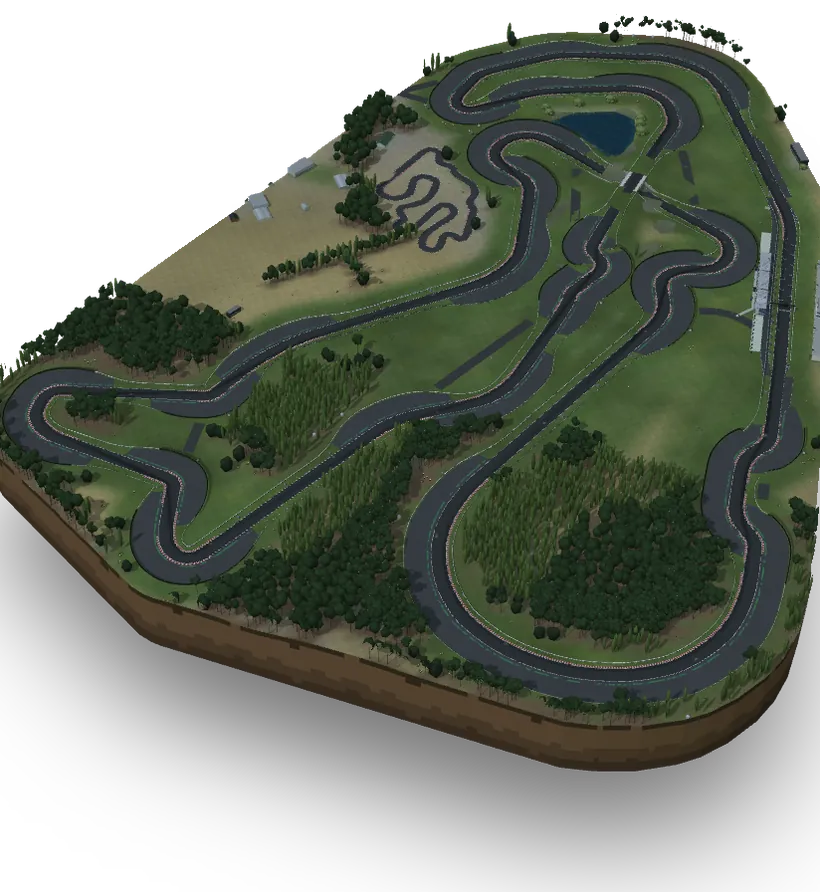
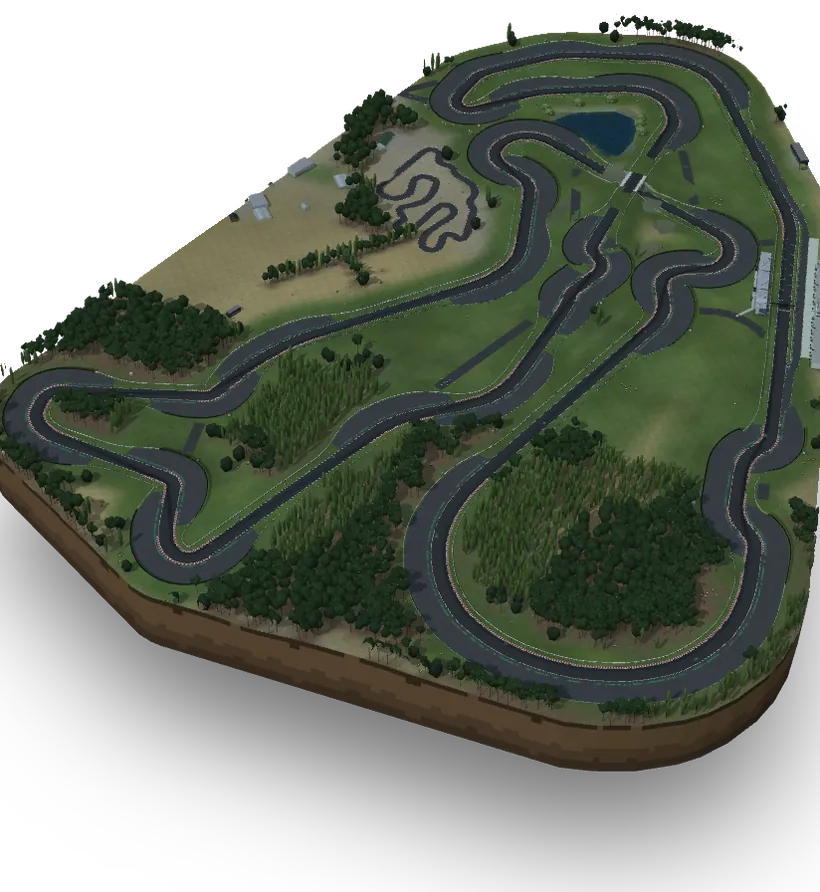
Dirkališča po celinah N12: Cromwell – 13 garaž, sliki za meni s stezo boksov levo
- Stavba boksov ima 13 garaž (144 m, od -72 do 72 m) za 13 posadk, ki
  jih postavi World (pitRow do 55 m + zadnji boks); prej je 13. ekipa
  stala pred pisarno in njen trak je visel v zraku. Paddock do 78 m.
- Sliki za meni znova izrisani: boksarska steza in predprostor na
  zunanji strani ciljne ravnine pred stavbo boksov.
- Referenci sveta in obremenitve za Cromwell (214/263 klicev,
  600k/715k oglišč); test garaž: Cromwell 16 ploskev, vse vidne.

Claude-Session: https://claude.ai/code/session_01UuPU9EGq6RcTVcgcFcvvxx

diff --git a/js/world-cromwell.js b/js/world-cromwell.js
@@ -6,7 +6,7 @@
    the track: docs/proge/cromwell.md). Its own: the figure of eight's bridge (Core: T.cross; the upper leg on an embankment, a concrete deck
    with parapets that fades while the followed car drives under it, Render's dyn.tunnel; the lower leg between retaining walls, the ground
    behind them on a patch of its own, finer than the terrain's grid); the pit lane on the left of the start straight (def.pit) and the pit
-   building behind it (12 crews' garages, a roof terrace, the race control's glass over the start line), the paddock behind it, the covered
+   building behind it (13 crews' garages, a roof terrace, the race control's glass over the start line), the paddock behind it, the covered
    grandstand across the straight; the terrace's dry golden grass with tussock and wild thyme, stony patches, the circuit's irrigated
    lawns; the radiata pine plantations, the shelter belts of Lombardy poplars, pines and macrocarpa, broom and briar; the orchards' and
    vineyards' rows on the farmland (lc 2, in blocks of 160 m; few by the circuit); the pond in the west loop (def.sk.sea: API.rbSea) with flax and
@@ -176,7 +176,7 @@
     const mD = (x, z) => (x - S0[0]) * mtx + (z - S0[1]) * mtz, mL = (x, z) => (x - S0[0]) * mnx + (z - S0[1]) * mnz;
     const mainD = (i) => { const d = dSs(i * ds); return d > -260 && d < 160; };   // (a sample on the main straight)
     // the paddock behind the pit building (metres along the straight and out from it, on the pits' side): asphalt from the building's back
-    const PAD = { d0: -78, d1: 70, o0: 38, o1: 86 };
+    const PAD = { d0: -78, d1: 78, o0: 38, o1: 86 };
     const paddock = (x, z) => { const d = mD(x, z), l = mL(x, z); return d > PAD.d0 && d < PAD.d1 && l > PAD.o0 && l < PAD.o1; };
 
     /* ---- the bridge (Core: T.cross, the lower leg under the upper one). The upper leg's road on its deck from D0 to D1 (14 m either side
@@ -499,12 +499,12 @@
       pitExcl(exclPush);
       nGar = pitBuilding();
     }
-    // the pit building: 134 m along the lane, the start line in its middle. The ground floor, 5 m: the crews' 12 garages (10 m, open: World's
+    // the pit building: 144 m along the lane, the start line in its middle. The ground floor, 5 m: the crews' 13 garages (10 m, open: World's
     // measures, out.pitBoxes[].gar, so that the renderer's team colours, door and flags fit; def.pitRow), offices at either end, a corridor
     // behind them with roller doors and windows to the paddock; on its flat roof a terrace behind white railings; over the start line the
     // race control, two floors of glass on the roof, the place's name on it, New Zealand's flags
     function pitBuilding() {
-      const pm = T.pitAt(sStart), PO = pm ? pm.o : 14, F = PO + 12.5, b0 = PO + 19.7, BK = b0 + 3.2, RF = 5.0, PR = def.pitRow || [-65, 55], B0 = PR[0], B1 = PR[1], E = 7;
+      const pm = T.pitAt(sStart), PO = pm ? pm.o : 14, F = PO + 12.5, b0 = PO + 19.7, BK = b0 + 3.2, RF = 5.0, PR = def.pitRow || [-65, 55], B0 = PR[0], B1 = PR[1] + 10, E = 7;   // (B1: the last box's garage's end, World's boxes from pitRow[0] to pitRow[1] + 10)
       const WALL = [0.94, 0.94, 0.92], DOOR = [0.74, 0.76, 0.78], SLAB = [0.95, 0.95, 0.94], ROOF = [0.62, 0.62, 0.6], RAIL = [0.96, 0.96, 0.95];
       const kb = (g, s, o, y, sx, sy, sz, col, top, nb) => { const [x, z, hd] = At(s, o); box(g, x, Y(s) + y, z, sx, sy, sz, hd, col, top, nb); };
       const kf = (g, d0, d1, o, y0, y1, col, dir) => { const [x0, z0] = At(sAt(d0), o), [x1, z1] = At(sAt(d1), o), sm = sAt((d0 + d1) / 2), [xb, zb] = At(sm, o - (dir || -1) * 0.2), dy = Y(sm);   // a flat panel facing the lane (dir -1) or the paddock (+1)
@@ -605,7 +605,7 @@
     for (let k = 0; k + 6 < B7.length; k += 7) {
       const x = B7[k], z = B7[k + 1], Lb = B7[k + 2], Wb = B7[k + 3], ang = B7[k + 4] * Math.PI / 180, H = B7[k + 5] || 6, kind = B7[k + 6], rd = nrDist(x, z);
       if (paddock(x, z) || excluded(x, z)) continue;
-      { const bd = mD(x, z), bl = mL(x, z); if (PP && bl > 18 && bl < 42 && bd > -72 - Lb / 2 && bd < 62 + Lb / 2) continue; }   // (by the pit building: ours)
+      { const bd = mD(x, z), bl = mL(x, z); if (PP && bl > 18 && bl < 42 && bd > -72 - Lb / 2 && bd < 72 + Lb / 2) continue; }   // (by the pit building: ours)
       const g = rd < 170 ? scen.get(x, z) : farB.get(x, z), y0 = groundMin(x, z, Lb, Wb, ang), c = Math.cos(ang), s = Math.sin(ang), at = (a, b) => [x + c * a - s * b, z + s * a + c * b];
       if (rd < 70 && Lb * Wb < 900) {   // the circuit's own (the offices, the workshops, the kiosks): dark cladding, a band of windows, a flat roof
         const Hb = clamp(H, 3.6, 8), ins = [x, y0 + Hb / 2, z];

diff --git a/docs/kazalo.md b/docs/kazalo.md
@@ -255,7 +255,7 @@ Naslovi `/*  <naslov>`: telesa avtov `car body definitions`, nova vozila `the ne
 | parnu | Pärnu, Estonija | parnu | `js/world-parnu.js` (`buildParnu`, svoj graditelj: obalni travniki `paGrassTex` in barve tal `P.colFn` (seno, mokrotne kotanje ob jarkih `ditchD` in ribniku, polja, gozdna tla), bori, breze, brini in vrbe `paTreeGeo` z vetrom, prodišča `API.rbGravelTex` po `T.gravL` / `T.gravR`, robniki, ograje (beton, gume, jeklena), stavba boksov z 29 garažami `pitBuilding` (13 ekip po merah `out.pitBoxes[].gar`), paviljon in hiše `sk.bld` / `sk.pav`, paddock s tovornjaki, tribuna `def.stands`, ribnik `API.rbSea.water` s trstičjem, jarki, ograje `sk.fence`, zastave Estonije `API.rbFlags`, TV stolpi in redarske hišice, table `paAtlas`) |
 | houli | Houli, Tajvan | houli | `js/world-houli.js` (`buildHouli`, svoj graditelj: subtropska trata `hlGrassTex` in barve tal `P.colFn` (suhe zaplate, polja riža in cvetja, rdeča prst, gozdna tla, dvorišča, paddock), kafrovci, betelove palme, bambus in grmi `hlTreeGeo` z vetrom, brajde vinogradov in sadovnjakov `hlTrellisGeo`, asfaltne izletne cone (`def.runoffTarmac`), robniki, ograje (beton, gume, jeklena), stavba za dirke z 37 garažami in steklenimi nadstropji `hlGlassTex` (13 ekip po merah `out.pitBoxes[].gar`), paddock s tovornjaki, tribuna po obrisu `sk.gs`, hoteli, templji in hiše `sk.bld` / `sk.hs`, karting `sk.kart`, zastave Tajvana `API.rbFlags`, TV stolpi in redarske hišice, table `hlAtlas`, daljne znamenitosti `sk.lm` v enem izrisu, obzorje `API.rsFar`) |
 | tocancipa | Tocancipá, Kolumbija | tocancipa | `js/world-tocancipa.js` (`buildTocancipa`, svoj graditelj: pašniki kikuja `tcGrassTex` in barve tal `P.colFn` (rumeneče zaplate, njive na črni prsti, tla nasadov, dvorišča, pokošene trate, paddock), evkalipti, bori, cipresi, uleks in akacije `tcTreeGeo` z vetrom (cenejše krošnje dlje od 60 m), sitje ob ribnikih `tcRushGeo`, asfaltne izletne cone z zelenim pasom (`def.runoffTarmac`), robniki, ograje (beton, gume, jeklena), nizka stavba boksov s 13 garažami, teraso in steklom vodstva dirke `tcGlassTex` (po merah `out.pitBoxes[].gar`), paddock s tovornjaki, tribuna po obrisu `sk.gs`, rastlinjaki `sk.gh`, cerkev, stavbe dirkališča, hale in hiše `sk.bld` / `sk.hs`, povezave `sk.lk`, makadamska steza `sk.dt`, karting `sk.kart`, ribnika `API.rbSea.water`, zastave Kolumbije `API.rbFlags`, TV stolpi in redarske hišice, table `tcAtlas`, daljne znamenitosti `sk.lm` v enem izrisu, obzorje `API.rsFar`) |
-| cromwell | Cromwell, Nova Zelandija | cromwell | `js/world-cromwell.js` (`buildCromwell`, svoj graditelj: suha trava terase `cwGrassTex` in barve tal `P.colFn` (zalivane trate znotraj dirkališča, kamnite zaplate, sadovnjaki, vinogradi in pašniki, tla nasadov, dvorišča, paddock), lombardski topoli, radiata bori, makrokarpe, grmi in vrbe `cwTreeGeo` z vetrom, šopi trave `cwTussockGeo`, novozelandski lan `cwFlaxGeo` in sitje `cwRushGeo` ob ribniku, vrste vinogradov `cwVineGeo`, most osmice z nasipom in vkopom (`T.cross`, `dyn.tunnel`), asfaltne izletne cone, robniki, ograje (beton, gume, jeklena), nizka stavba boksov z 12 garažami, teraso in steklom vodstva dirke `cwGlassTex` (po merah `out.pitBoxes[].gar`; boksarska steza `pitLaneScenery` na levi), paddock s tovornjaki, tribuna, stavbe, hale in hiše `sk.bld` / `sk.hs`, ceste `sk.road`, povezave `sk.lk`, ovalna steza `sk.dt`, karting `sk.kart`, ribnik `API.rbSea.water`, zastave Nove Zelandije `API.rbFlags`, TV stolpi in redarske hišice, table `cwAtlas`, daljnovodi `sk.lm`, obzorje `API.rsFar`) |
+| cromwell | Cromwell, Nova Zelandija | cromwell | `js/world-cromwell.js` (`buildCromwell`, svoj graditelj: suha trava terase `cwGrassTex` in barve tal `P.colFn` (zalivane trate znotraj dirkališča, kamnite zaplate, sadovnjaki, vinogradi in pašniki, tla nasadov, dvorišča, paddock), lombardski topoli, radiata bori, makrokarpe, grmi in vrbe `cwTreeGeo` z vetrom, šopi trave `cwTussockGeo`, novozelandski lan `cwFlaxGeo` in sitje `cwRushGeo` ob ribniku, vrste vinogradov `cwVineGeo`, most osmice z nasipom in vkopom (`T.cross`, `dyn.tunnel`), asfaltne izletne cone, robniki, ograje (beton, gume, jeklena), nizka stavba boksov s 13 garažami, teraso in steklom vodstva dirke `cwGlassTex` (po merah `out.pitBoxes[].gar`; boksarska steza `pitLaneScenery` na levi), paddock s tovornjaki, tribuna, stavbe, hale in hiše `sk.bld` / `sk.hs`, ceste `sk.road`, povezave `sk.lk`, ovalna steza `sk.dt`, karting `sk.kart`, ribnik `API.rbSea.water`, zastave Nove Zelandije `API.rbFlags`, TV stolpi in redarske hišice, table `cwAtlas`, daljnovodi `sk.lm`, obzorje `API.rsFar`) |
 | spa | Spa, Belgija | spa | `js/world-spa.js` (`buildSpa`) |
 | suzuka | Suzuka, Japonska | suzuka | `js/world-suzuka.js` (`buildSuzuka`) |
 | tianmen | Tianmen, Kitajska | tianmen | `js/world-tianmen.js` (`buildTianmen`) |

diff --git a/docs/proge/cromwell.md b/docs/proge/cromwell.md
@@ -6,7 +6,7 @@ Dirkališče na rečni terasi južno od Cromwella v Osrednjem Otagu, 216 m nad m
 
 - **Krog:** s ciljne ravnine **šikana** (desno-levo), **jugovzhodna zanka** (dolga desna med bori), **povratna ravnina**, **esi**, **levi proti mostu**, **pod mostom** (v vkopu med opornimi zidovi), **zanka ob kartingu** (leva), **dolga ravnina**, **desni ob gozdu**, **zahodna lasnica** (leva), **desni pred lasnico**, **južna lasnica** (leva), **ovinki proti mostu**, **levi-desni pred mostom**, **most** (ravnina na nasipu čez cesto pod njim), **severni levi**, **ob ribniku** (levi), **severna lasnica** (desna), **dolgi desni** in **ciljna ravnina**. 22 vrhov ovinkov, zavitost na naši črti ~490 °/km, najožji polmer 13 m (severna lasnica).
 - **Most:** zgornja cesta na betonskem krovu z ogrado in napisom CENTRAL OTAGO, na obeh straneh nasip; spodnja cesta v vkopu med opornimi zidovi. Ko vodeni avto zapelje pod most, krov zbledi (`dyn.tunnel`), da je avto viden.
-- **Cesta in boksi:** asfalt širine 12 m z rdeče-belimi robniki; svetle asfaltne izletne cone tam, kjer so ograje daleč od ceste, stene iz gum zunaj počasnejših ovinkov, drugod jeklena ograja na stebričkih, betonski zid ob boksih, nasproti njih pred tribuno in na nasipu mostu; ograje so večinoma več kot 3 m od roba ceste (95 % dolžine), bliže samo zid boksov (2,5 m). Boksarska steza je na levi strani ciljne ravnine (od 170 m pred črto do 90 m za njo). Nizka **stavba boksov** (134 m, ciljna črta na sredini) ima v pritličju **12 garaž ekip** po 10 m (igralčeva ob ciljni črti) in pisarne na obeh koncih, na ravni strehi teraso z belo ograjo, nad ciljno črto dve stekleni nadstropji vodstva dirke z napisom CROMWELL in novozelandske zastave; ob mraku in ponoči garaže svetijo (osvetljeni boksi, `docs/igra.md`). Za stavbo asfaltiran **paddock** s tovornjaki ekip, kombiji, avtodomi in avtomobili; startni portal s semaforjem in napisom START · FINISH.
+- **Cesta in boksi:** asfalt širine 12 m z rdeče-belimi robniki; svetle asfaltne izletne cone tam, kjer so ograje daleč od ceste, stene iz gum zunaj počasnejših ovinkov, drugod jeklena ograja na stebričkih, betonski zid ob boksih, nasproti njih pred tribuno in na nasipu mostu; ograje so večinoma več kot 3 m od roba ceste (95 % dolžine), bliže samo zid boksov (2,5 m). Boksarska steza je na levi strani ciljne ravnine (od 170 m pred črto do 90 m za njo). Nizka **stavba boksov** (144 m, ciljna črta na sredini) ima v pritličju **13 garaž ekip** po 10 m (igralčeva ob ciljni črti) in pisarne na obeh koncih, na ravni strehi teraso z belo ograjo, nad ciljno črto dve stekleni nadstropji vodstva dirke z napisom CROMWELL in novozelandske zastave; ob mraku in ponoči garaže svetijo (osvetljeni boksi, `docs/igra.md`). Za stavbo asfaltiran **paddock** s tovornjaki ekip, kombiji, avtodomi in avtomobili; startni portal s semaforjem in napisom START · FINISH.
 - **Okolica (do ~60 m od ceste):** suha zlata trava terase s šopi trave in divjim timijanom, kamnite zaplate, znotraj dirkališča zalivane trate; nasadi radiata bora, vetrozaščitni pasovi lombardskih topolov, borov in makrokarp, žuke in šipek ob njihovih robovih; nekaj vrst sadovnjakov; **ribnik** v zahodni zanki z novozelandskim lanom na bregu, sitjem v plitvini in vrbami; pokrita tribuna CROMWELL na desni strani ciljne ravnine (od 70 m pred črto do 10 m za njo); druge poti dirkališča (povezave krajših postavitev), ilovnata **ovalna steza** in **karting** (OSM); stavbe dirkališča s temno oblogo, hale in lope iz pločevine, pritlične hiše z lesenimi opaži ali iz opeke in strehami iz valovite pločevine; novozelandske zastave, TV stolpi, redarske hišice z redarji, table samo z imeni krajev (CROMWELL, CENTRAL OTAGO, NEW ZEALAND); malo gledalcev ob šikani, esih in lasnicah; ovce, zajci in gosi, korita in rezervoarji za vodo.
 - **Dlje od ceste** (poceni za telefon): teren iz višin s travo, nasadi, kmetijskimi zemljišči in robom mesta do ~0,6 km; daljnovodi z jeklenimi stebri in betonskimi drogovi; na obzorju gorovja okoli kotline Cromwella v barvah Osrednjega Otaga in jezero Dunstan (do 24,5 km).
 - **Svoj graditelj:** `js/world-cromwell.js` (četrti od petih novih dirkališč s svojim graditeljem; vzorec v načrtu, razdelek »Novih pet«): most z nasipom in vkopom, stavbo boksov, paddock, tribuno, ograje, izletne cone, drevesa, hiše in daljnovode postavi sam; skupni so samo nizki gradniki (teren, ljudje, zastave `API.rbFlags`, obzorje `API.rsFar`, voda in ravnanje tal paddocka `API.rbSea`, boksarska steza in posadke).
